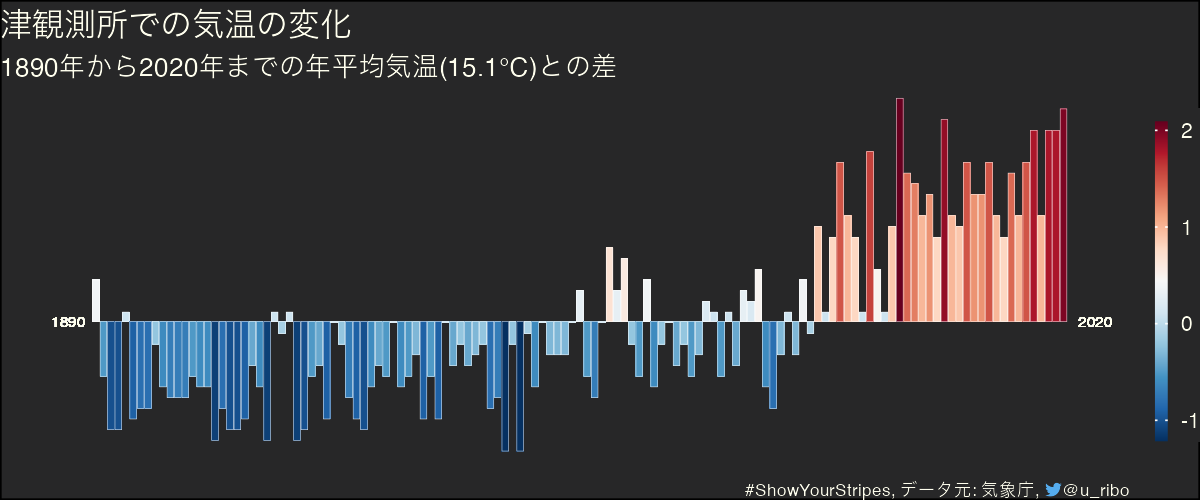
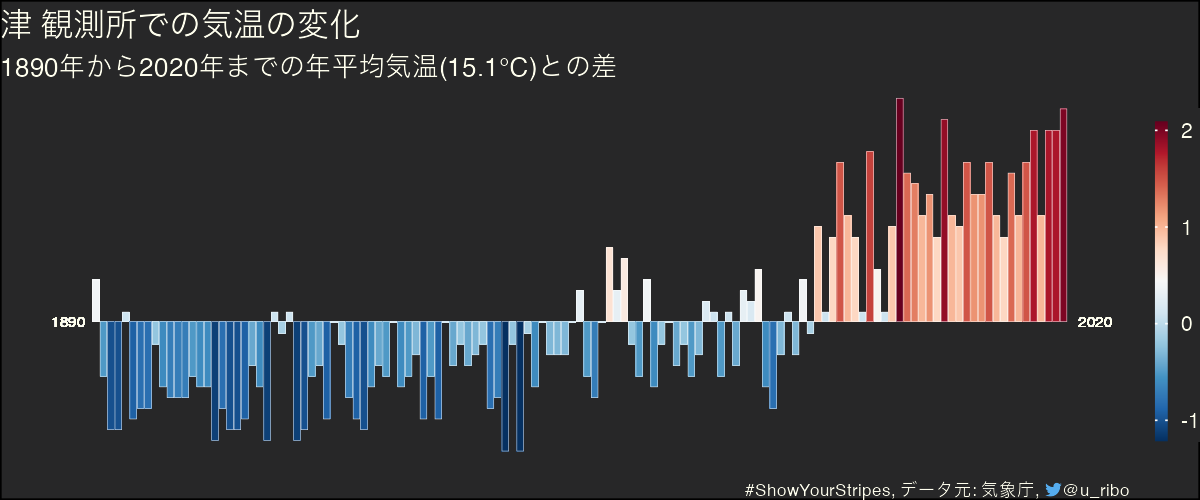
「津」の修正

Changed region(s): [[0.0308, 0.0, 0.3083, 0.09]]

diff --git a/README.md b/README.md
@@ -31,6 +31,12 @@ R code
 </summary>
 
 ``` r
+df_temperature <- 
+  df_temperature %>% 
+  mutate(station_name = if_else(station_name == "津",
+                                 "津 ",
+                                 station_name))
+
 df_temperature$block_no %>%
   unique() %>%
   purrr::walk(
